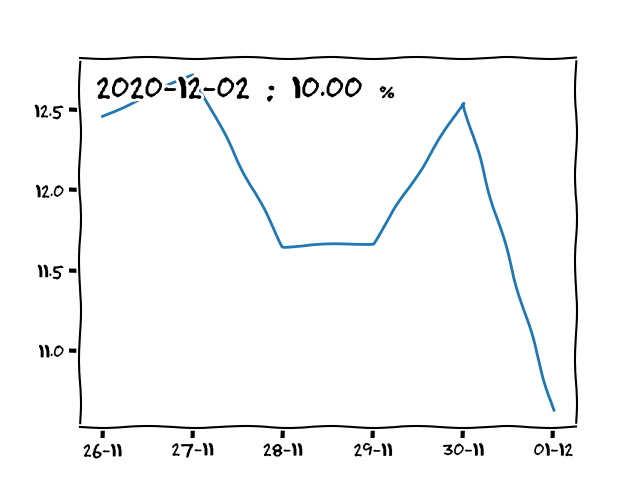
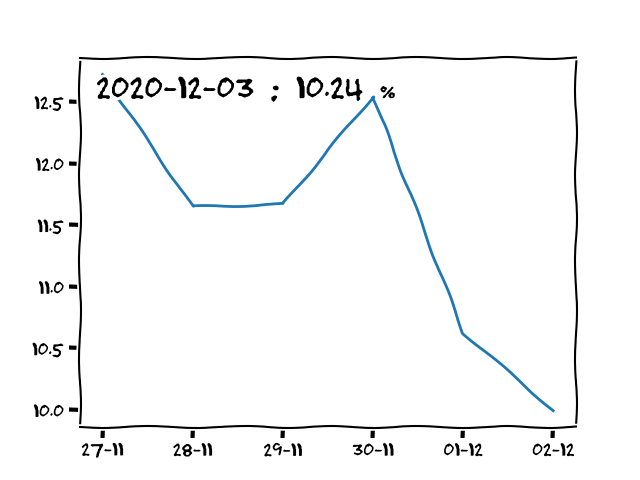
Deploying to gh-pages from  @ 1b768d6a8c2d1c63288006ea0932d47844c04c74 🚀

diff --git a/index.html b/index.html
@@ -78,7 +78,7 @@
     <div class="row mb-4">
       <div class="col-12">
         <h1>Contagi su Tamponi</h1>
-        <h2>02-12-2020</h2>
+        <h2>03-12-2020</h2>
       </div>
     </div>
     <div class="row">
@@ -87,7 +87,7 @@
           Contagi
         </h3>
         <p class="value">
-          20.709
+          23.225
         </p>
       </div>
       <div class="col-12 col-lg-4">
@@ -95,7 +95,7 @@
           Tamponi
         </h3>
         <p class="value">
-          207.143
+          226.729
         </p>
       </div>
       <div class="col-12 col-lg-4">
@@ -103,7 +103,7 @@
           Percentuale
         </h3>
         <p class="value">
-          10.00%
+          10.24%
         </p>
       </div>
     </div>
@@ -124,6 +124,13 @@
             </tr>
           </thead>
           <tbody>
+            
+            <tr>
+              <td>02-12-2020</td>
+              <td>20.709</td>
+              <td>207.143</td>
+              <td>10.00%</td>
+            </tr>
             
             <tr>
               <td>01-12-2020</td>
@@ -158,13 +165,6 @@
               <td>28.352</td>
               <td>222.803</td>
               <td>12.73%</td>
-            </tr>
-            
-            <tr>
-              <td>26-11-2020</td>
-              <td>29.003</td>
-              <td>232.711</td>
-              <td>12.46%</td>
             </tr>
             
           </tbody>
@@ -205,12 +205,12 @@
 
     // The data for our dataset
     data: {
-      labels: ['26-11-2020', '27-11-2020', '28-11-2020', '29-11-2020', '30-11-2020', '01-12-2020', '02-12-2020',  ],
+      labels: ['27-11-2020', '28-11-2020', '29-11-2020', '30-11-2020', '01-12-2020', '02-12-2020', '03-12-2020',  ],
   datasets: [{
     label: 'Percentuale c/t',
     backgroundColor: 'rgb(255, 99, 132)',
     borderColor: 'rgb(255, 99, 132)',
-    data: [12.46, 12.73, 11.65, 11.67, 12.55, 10.63, 10.00, ]
+    data: [12.73, 11.65, 11.67, 12.55, 10.63, 10.00, 10.24, ]
       }]
     },
 
